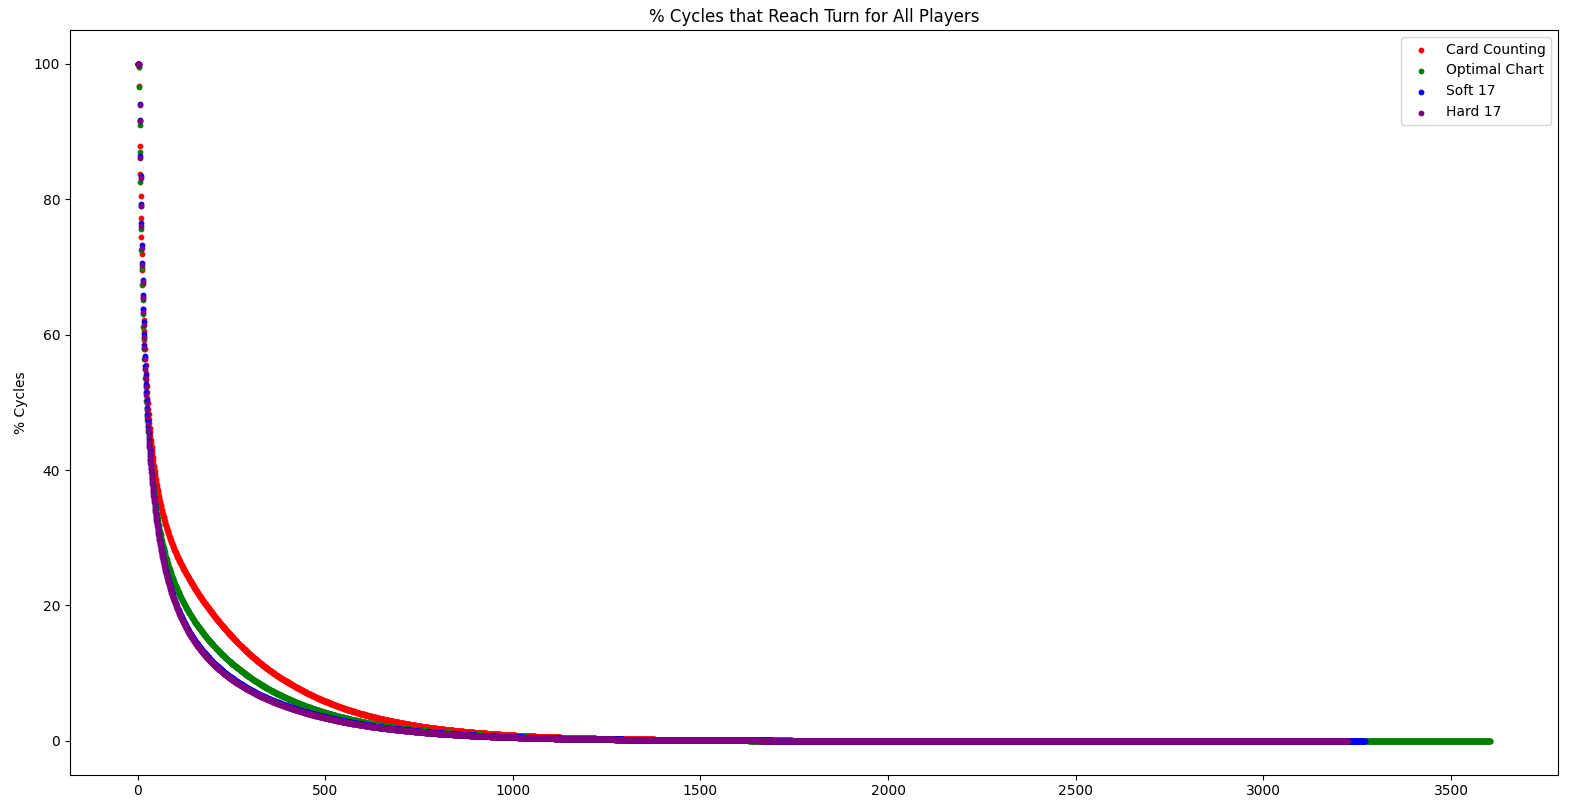
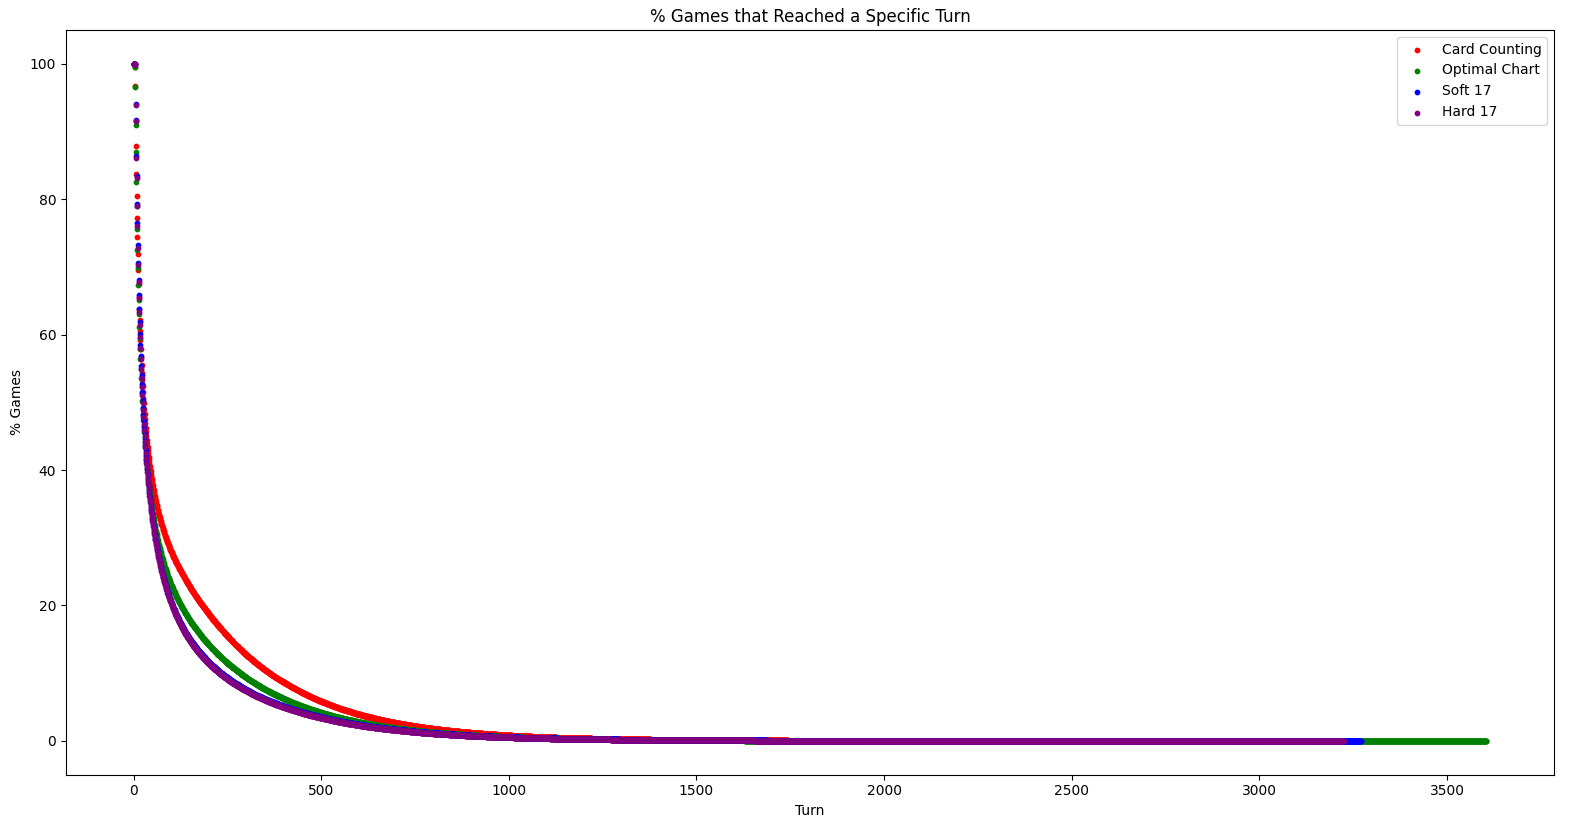
Edited Graph Titles

diff --git a/Plotting/dataPlot.py b/Plotting/dataPlot.py
@@ -24,7 +24,7 @@ for csv_file in csv_files:
 plt.figure(len(csv_files)*2)  # Create a new figure for average balance of all players
 for i, df_avg in enumerate(dfs_avg):
     plt.plot(df_avg, color=colors[i], label=labels[i])
-plt.title('Average Balance for All Players')
+plt.title('Average Balance for a Specific Turn')
 plt.xlabel('Turn')
 plt.ylabel('Average Balance')
 plt.legend()
@@ -33,9 +33,9 @@ plt.legend()
 plt.figure(len(csv_files)*2 + 1)  # Create a new figure for frequency of turn of all players
 for i, df_turn in enumerate(dfs_turn):
     plt.scatter(range(len(df_turn)), df_turn, color=colors[i], label=labels[i], s=10)  # Reduced dot size
-plt.title('% Cycles that Reach Turn for All Players')
+plt.title('% Games that Reached a Specific Turn')
 plt.xlabel('Turn')
-plt.ylabel('% Cycles')
+plt.ylabel('% Games')
 plt.legend()
 
 # Display all plots

diff --git a/Plotting/resultsPlot.py b/Plotting/resultsPlot.py
@@ -46,7 +46,7 @@ add_labels(bars2, loss_percentages)
 plt.xlabel('Strategies', fontweight='bold')
 plt.ylabel('# of Games', fontweight='bold')
 plt.xticks([r + bar_width/2 for r in range(len(wins))], players)
-plt.title('Comparison of Players that Reached Balance of $$1,000 vs Reaching a Balance below Minimum Bet of $25')
+plt.title('Comparison of Players that Reached Balance of \$1,000 vs Reaching a Balance below Minimum Bet of \$25')
 
 # Create legend & Show graphic
 plt.legend()

diff --git a/README.md b/README.md
@@ -57,8 +57,8 @@ After all simulations are completed, the average balance of a player at each tur
 
 ## Analysis & Metrics
 ### Average Balance for Each Turn
-![Average Balance vs. Turns](Pics/AverageBalancePlot.png)
 On this graph, the horizontal axis (x-axis) represents the turn number in a game, and the vertical axis (y-axis) represents the average balance of a player at that turn.
+![Average Balance vs. Turns](Pics/AverageBalancePlot.png)
 
 For example, if you see a point at (40, 500) on the graph, it means that on average, players had a balance of $500 at turn 40. This average is calculated from all games that reached turn 40. If a game did not reach turn 40, it is counted as zero in the average.
 
@@ -69,8 +69,8 @@ A strategy that results in a higher average balance at each turn is generally be
 Evidently, the **Card Counting Strategy** is the ony strategy that has a ***positive average balance after the first turn***. This means that on average, players won money on their first turn (***Very Minimal Winnings***) while players of other strategies lost money on average. Regardless, Card Counting is undoubetdly the best strategy of the four.
 
 ### % of Games that Reached Specific Turn
-![% of Games that Reached Specific Turn](Pics/TurnsReachedPlot.png)
 On this graph, the horizontal axis (x-axis) represents the number of turns in a game, and the vertical axis (y-axis) represents the percentage of games that reached that number of turns.
+![% of Games that Reached Specific Turn](Pics/TurnsReachedPlot.png)
 
 For example, if you see a point at (50, 60%) on the graph, it means that in 60% of the games, or 600,000 out of 1,000,000 simulations, the game reached at least 50 turns.
 
